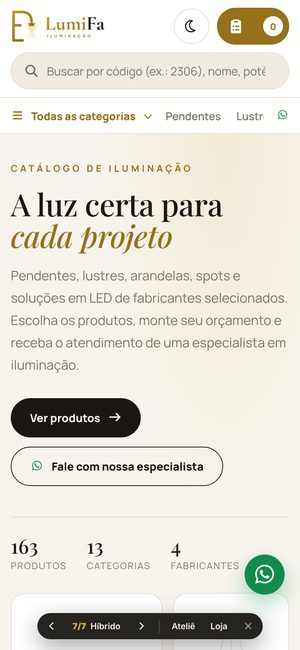
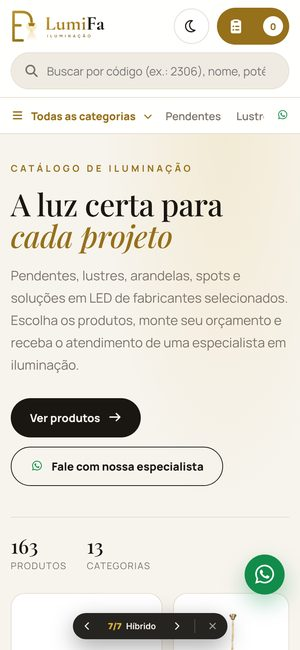
Modelo 7: visual Ateliê fixo, sem barra lateral (filtros em painel), capa com novidade + categorias diferentes, sem nº de fabricantes
Claude-Session: https://claude.ai/code/session_01W9RnXNuZBShyNATqKUtHJC

diff --git a/modelos/7-hibrido.html b/modelos/7-hibrido.html
@@ -142,15 +142,19 @@
   @media (max-width: 640px) { .rail { grid-auto-columns: 62%; gap: 10px; } }
 
   /* ---------- Vitrine com barra lateral (do modelo 3) ---------- */
-  .layout { display: grid; grid-template-columns: 268px minmax(0, 1fr); gap: 28px; padding-top: 34px; padding-bottom: 60px; align-items: start; }
-  aside.side { position: sticky; top: 140px; background: var(--surface); border: 1px solid var(--line); border-radius: var(--radius); padding: 6px 18px 12px; max-height: calc(100vh - 160px); overflow: auto; }
+  .layout { display: grid; grid-template-columns: minmax(0, 1fr); gap: 28px; padding-top: 34px; padding-bottom: 60px; align-items: start; }
+  aside.side { position: fixed; inset: 0 auto 0 0; width: min(340px, 88vw); z-index: 85; background: var(--surface); border-right: 1px solid var(--line); padding: 0 20px 20px; overflow: auto; transform: translateX(-105%); transition: transform .3s; }
+  body.filters-open aside.side { transform: none; box-shadow: 20px 0 60px rgba(0,0,0,.3); }
+  body.filters-open::after { content: ''; position: fixed; inset: 0; background: rgba(0,0,0,.45); z-index: 84; }
+  .side-close { display: flex; position: sticky; top: 0; background: var(--surface); padding: 14px 0; justify-content: space-between; align-items: center; border-bottom: 1px solid var(--line); z-index: 2; }
+  .side-close b { font-size: 18px; font-family: var(--font-head); font-weight: 500; }
+  .side-close button { border: 0; background: var(--accent); color: var(--on-accent); border-radius: 999px; padding: 9px 16px; font-weight: 700; }
   .side h3 { font-size: 15px; margin: 14px 0 6px; }
   .side-cats { display: flex; flex-direction: column; padding-bottom: 12px; border-bottom: 1px solid var(--line); }
   .side-cats .cat { border: 0; background: none; text-align: left; display: flex; justify-content: space-between; padding: 7px 10px; margin: 0 -10px; border-radius: 8px; font-size: 14px; color: var(--text); }
   .side-cats .cat:hover { background: var(--surface-2); }
   .side-cats .cat.is-on { background: color-mix(in srgb, var(--accent) 14%, transparent); color: var(--accent); font-weight: 700; }
   .side-cats .cat-n { color: var(--muted); font-size: 12px; }
-  .side-close { display: none; }
   @media (max-width: 960px) {
     .layout { grid-template-columns: minmax(0, 1fr); }
     aside.side { position: fixed; inset: 0 auto 0 0; width: min(330px, 88vw); max-height: none; z-index: 85; border-radius: 0; transform: translateX(-105%); transition: transform .3s; top: 0; }
@@ -165,14 +169,17 @@
   .content-head [data-count] { color: var(--muted); font-size: 14px; }
   .tools { display: flex; gap: 8px; align-items: center; flex-wrap: wrap; }
   .tools select, .fbtn { height: 42px; border: 1px solid var(--line); background: var(--surface); border-radius: var(--pill); padding: 0 14px; font-size: 13.5px; font-weight: 700; color: var(--text); outline: none; }
-  .fbtn { display: none; gap: 8px; align-items: center; }
-  @media (max-width: 960px) { .fbtn { display: inline-flex; } }
+  .fbtn { display: inline-flex; gap: 8px; align-items: center; cursor: pointer; }
+  .fbtn em { font-style: normal; background: var(--accent); color: var(--on-accent); border-radius: 999px; min-width: 20px; height: 20px; font-size: 11px; display: none; align-items: center; justify-content: center; }
+  .fbtn em.on { display: inline-flex; }
   .view { display: inline-flex; border: 1px solid var(--line); border-radius: var(--pill); overflow: hidden; background: var(--surface); }
   .view button { border: 0; background: none; width: 42px; height: 40px; color: var(--muted); }
   .view button.is-on { background: var(--text); color: var(--surface); }
   [data-applied] { display: flex; gap: 8px; flex-wrap: wrap; margin: 4px 0 14px; }
 
-  .grid { display: grid; grid-template-columns: repeat(auto-fill, minmax(232px, 1fr)); gap: 16px; }
+  .grid { display: grid; grid-template-columns: repeat(5, minmax(0, 1fr)); gap: 16px; }
+  @media (max-width: 1280px) { .grid { grid-template-columns: repeat(4, minmax(0, 1fr)); } }
+  @media (max-width: 980px) { .grid { grid-template-columns: repeat(3, minmax(0, 1fr)); } }
   @media (max-width: 560px) { .grid { grid-template-columns: repeat(2, 1fr); gap: 10px; } }
   .card { background: var(--surface); border: 1px solid var(--line); border-radius: var(--radius); display: flex; flex-direction: column; overflow: hidden; min-width: 0; transition: box-shadow .25s, border-color .25s, transform .25s; }
   .card:hover { border-color: color-mix(in srgb, var(--accent) 55%, var(--line)); box-shadow: 0 22px 44px -24px var(--glow), 0 14px 30px -20px rgba(0,0,0,.28); transform: translateY(-3px); }
@@ -242,7 +249,7 @@
 </style>
 <script>
   // pele escolhida (?pele=loja ou atelie) — vale durante a visita
-  (function () { var p = new URLSearchParams(location.search).get('pele'); try { p = p || sessionStorage.getItem('modelos_pele'); } catch (e) {} if (p === 'loja' || p === 'atelie') document.documentElement.setAttribute('data-skin', p); })();
+  // visual definido: Ateliê
 </script>
 </head>
 <body>
@@ -272,7 +279,7 @@
         <a href="#produtos" class="btn-solid">Ver produtos <i class="fa-solid fa-arrow-right"></i></a>
         <a href="https://wa.me/5511959781849?text=Ol%C3%A1!%20Vim%20pelo%20cat%C3%A1logo%20da%20LumiFa%20e%20gostaria%20de%20falar%20com%20uma%20especialista." target="_blank" rel="noopener" class="btn-out"><i class="fa-brands fa-whatsapp"></i> Fale com nossa especialista</a>
       </div>
-      <div class="stats"><div><b data-stat-items>—</b><span>Produtos</span></div><div><b data-stat-cats>—</b><span>Categorias</span></div><div><b>4</b><span>Fabricantes</span></div></div>
+      <div class="stats"><div><b data-stat-items>—</b><span>Produtos</span></div><div><b data-stat-cats>—</b><span>Categorias</span></div></div>
     </div>
     <div class="hero-art" data-hero-art><figure class="skel" data-skeleton></figure><figure class="skel" data-skeleton></figure><figure class="skel" data-skeleton></figure></div>
   </div></section>
@@ -293,15 +300,13 @@
     <div class="wrap layout" id="produtos">
       <aside class="side" aria-label="Filtros">
         <div class="side-close"><b>Filtros</b><button onclick="document.body.classList.remove('filters-open')">Ver resultados</button></div>
-        <h3>Categorias</h3>
-        <div class="side-cats" data-cats="side"></div>
         <div data-facets></div>
       </aside>
       <section data-results>
         <div class="content-head">
           <div><h2 data-cat-title="Todos os produtos">Todos os produtos</h2><span data-count>Carregando...</span></div>
           <div class="tools">
-            <button class="fbtn" onclick="document.body.classList.add('filters-open')"><i class="fa-solid fa-sliders"></i> Filtros</button>
+            <button class="fbtn" onclick="document.body.classList.add('filters-open')"><i class="fa-solid fa-sliders"></i> Filtros <em data-fcount></em></button>
             <select data-sort aria-label="Ordenar"><option value="default">Mais relevantes</option><option value="new">Lançamentos</option><option value="priceAsc">Menor preço</option><option value="priceDesc">Maior preço</option><option value="name">Nome A–Z</option></select>
             <div class="view"><button class="is-on" data-view="grid" aria-label="Ver em blocos" title="Blocos"><i class="fa-solid fa-grip"></i></button><button data-view="list" aria-label="Ver em lista" title="Lista"><i class="fa-solid fa-list"></i></button></div>
           </div>
@@ -367,7 +372,7 @@ Motor.init({
   id: '7-hibrido', logo: 'lumifa', theme: 'auto', brandName: 'LumiFa Iluminação',
   headerOffset: () => document.querySelector('header.main').offsetHeight + 12,
   scrollOnCat: 'always', scrollAnchor: '#produtos',
-  demoExtra: `<span class="demo-l">Visual</span><button data-skin-opt="atelie" onclick="setSkin('atelie')">Ateliê</button><button data-skin-opt="loja" onclick="setSkin('loja')">Loja</button>`,
+  demoExtra: `<span class="demo-l">Visual Ateliê · logo LumiFa</span>`,
   catTemplates: {
     side: (c, n) => `<button class="cat" data-cat="${Motor.H.esc(c)}"><span>${Motor.H.esc(c)}</span><span class="cat-n">${n}</span></button>`,
     circle: (c, n) => `<button class="cat" data-cat="${Motor.H.esc(c)}"><span class="ci">${c === 'Todos' ? '<i class="fa-solid fa-border-all"></i>' : `<img data-catimg="${Motor.H.esc(c)}" alt="">`}</span>${Motor.H.esc(c === 'Todos' ? 'Ver tudo' : c)}<small>${n} itens</small></button>`,
@@ -375,17 +380,27 @@ Motor.init({
   },
   card,
   onRender() {
+    const S = Motor.state, n = (S.price ? 1 : 0) + S.colors.size + S.temps.size, fc = document.querySelector('[data-fcount]');
+    if (fc) { fc.textContent = n; fc.classList.toggle('on', n > 0); }
     document.querySelectorAll('.circles img[data-catimg]').forEach(img => { if (!img.src) img.src = Motor.catImage(img.dataset.catimg); });
   },
   onReady(M) {
     const H = M.H, S = M.state;
-    setSkin(document.documentElement.getAttribute('data-skin'));
     try { if (sessionStorage.getItem('modelos_vista') === 'list') document.querySelector('[data-view="list"]').click(); } catch (_) {}
     document.querySelector('[data-stat-items]').textContent = S.items.length.toLocaleString('pt-BR');
     document.querySelector('[data-stat-cats]').textContent = M.categories().length - 1;
-    const f = M.featured(30).filter(i => /Pendentes|Lustres|Arandelas|Plafons/.test(i.category));
-    const pick = (f.length >= 3 ? f : [...M.byCat('Pendentes', 2), ...M.byCat('Lustres', 1)]).slice(0, 3);
-    document.querySelector('[data-hero-art]').innerHTML = pick.map(it => `<figure data-open="${H.esc(it.code)}">${H.img(it)}<figcaption>${H.esc(it.category)}</figcaption></figure>`).join('');
+    // capa: 1 novidade do catálogo + 2 peças de categorias diferentes (nunca duas da mesma)
+    const used = new Set(), pick = [];
+    const deco = /Pendentes|Lustres|Arandelas|Plafons|Abajures/;
+    const novo = M.newest(40).find(i => deco.test(i.category)) || M.newest(1)[0];
+    if (novo) { pick.push([novo, 'Novidade · ' + novo.category]); used.add(novo.category); }
+    for (const c of ['Lustres', 'Arandelas', 'Pendentes', 'Plafons', 'Abajures & Mesa', 'Painéis de LED', 'Spots']) {
+      if (pick.length >= 3) break;
+      if (used.has(c)) continue;
+      const it = M.byCat(c, 1)[0];
+      if (it) { pick.push([it, c]); used.add(c); }
+    }
+    document.querySelector('[data-hero-art]').innerHTML = pick.map(([it, cap]) => `<figure data-open="${H.esc(it.code)}">${H.img(it)}<figcaption>${H.esc(cap)}</figcaption></figure>`).join('');
     const nw = M.newest(16);
     document.getElementById('novos').innerHTML = (nw.length ? nw : S.items.slice(-12)).map(i => card(i, H)).join('');
     document.querySelector('[data-year]').textContent = new Date().getFullYear();

diff --git a/modelos/index.html b/modelos/index.html
@@ -58,10 +58,10 @@
   <section class="model" style="border-bottom:2px solid var(--gold)">
     <div class="shots"><img class="d" src="img/prev/7-desktop.jpg" alt="Modelo 7 no computador"><img class="m" src="img/prev/7-celular.jpg" alt="Modelo 7 no celular"></div>
     <div><span class="num">07 · novo</span><h2>Híbrido</h2><div class="ins">O melhor de cada um, a partir da sua escolha</div>
-      <p>Junta as partes que você escolheu e tem dois visuais para comparar na barrinha de baixo: <b>Ateliê</b> (o clima elegante do Showroom) e <b>Loja</b> (a cara de site de venda do Portal do Lojista).</p>
-      <ul><li><b>Introdução</b> da Galeria, com "Fale com nossa especialista" (sem nome)</li><li><b>Categorias com foto</b> de um produto (Showroom), em círculos com setas e no menu "Todas as categorias"</li><li><b>Novidades do catálogo</b> com setas (Vitrine)</li><li><b>Barra lateral</b>, filtros, "Mais relevantes" e <b>lista ou blocos</b> (Portal do Lojista)</li><li>Tela do produto do Showroom, logo LumiFa e botão de voltar ao topo</li></ul>
-      <span class="tag">Recomendado</span><span class="tag">Ateliê ou Loja</span>
-      <div class="btns"><a class="btn" href="https://lumifabr.github.io/modelos/7-hibrido.html" target="_blank" rel="noopener">Abrir modelo 7 →</a><a class="btn l" href="https://lumifabr.github.io/modelos/7-hibrido.html?pele=loja" target="_blank" rel="noopener">Ver no visual Loja</a></div></div>
+      <p>Junta as partes que você escolheu, no visual <b>Ateliê</b> (o clima elegante do Showroom) com logo LumiFa.</p>
+      <ul><li><b>Introdução</b> da Galeria, com "Fale com nossa especialista"; na capa, uma novidade do catálogo e peças de categorias diferentes</li><li><b>Categorias com foto</b> de um produto, em círculos com setas e no menu "Todas as categorias"</li><li><b>Novidades do catálogo</b> com setas</li><li>Vitrine larga (sem barra lateral), com <b>Filtros</b> em painel, "Mais relevantes" e <b>lista ou blocos</b></li><li>Tela do produto do Showroom e botão de voltar ao topo</li></ul>
+      <span class="tag">Escolhido</span><span class="tag">Ateliê</span>
+      <div class="btns"><a class="btn" href="https://lumifabr.github.io/modelos/7-hibrido.html" target="_blank" rel="noopener">Abrir modelo 7 →</a></div></div>
   </section>
   <section class="model">
     <div class="shots"><img class="d" src="img/prev/1-desktop.jpg" alt="Modelo 1 no computador"><img class="m" src="img/prev/1-celular.jpg" alt="Modelo 1 no celular"></div>
